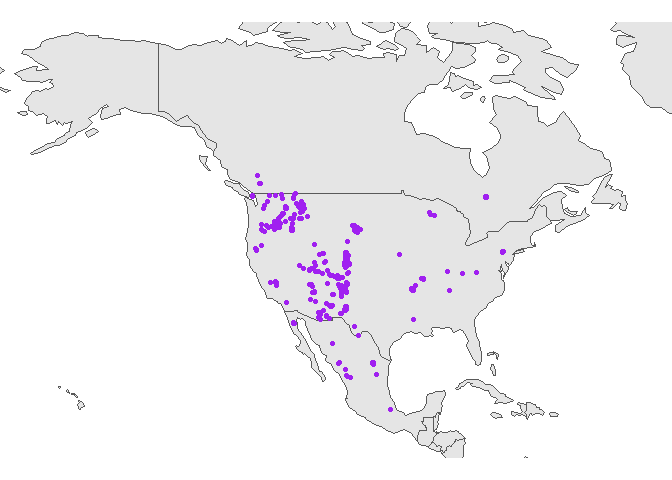
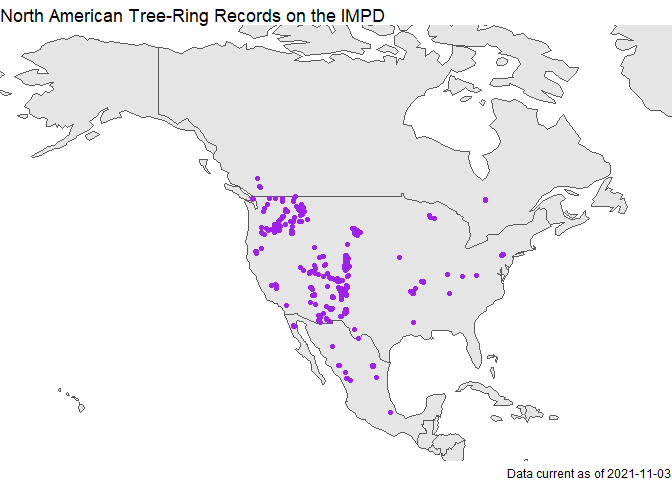
updates to readme

diff --git a/README.md b/README.md
@@ -28,6 +28,9 @@ ggplot() +
   geom_sf(data = spData::world) +
   geom_sf(data = all_sites, color = "purple") +
   coord_sf(xlim=c(-165, -50), ylim=c(15, 70)) +
+  labs(title = "North American Tree-Ring Records on the IMPD",
+       caption = paste0("Data current as of ", lubridate::today())
+       ) +
   theme_void()
 ```
 
@@ -36,7 +39,8 @@ ggplot() +
 The tree-ring data associated with each site can be obtained directly:
 
 ``` r
-fhx <- get_impd_fhx(all_sites[10, ]$studyCode)
+site_to_get <- all_sites[10, ]$studyCode
+fhx <- get_impd_fhx(site_to_get)
 ```
 
 and analyzed with tools from the `burnr` library, for example:
@@ -45,7 +49,16 @@ and analyzed with tools from the `burnr` library, for example:
 library(burnr)
 plot_demograph(fhx, 
                composite_rug = TRUE,
-               plot_legend = TRUE)
+               plot_legend = TRUE) +
+  labs(title = all_sites[10, ]$siteName, 
+       subtitle = paste0("Collected by: ", all_sites[10, ]$investigators),
+       caption = "Tree-ring fire history plot. Each horizontal line represents the life-span
+       of a tree, with vertical tick marks denoting  fire scars recorded in the tree rings. 
+       At bottom, vertical dashes indicate 'widespread' fires that were recorded on 25% of 
+       the trees.")
 ```
 
 <img src="man/figures/README-unnamed-chunk-4-1.png" width="100%" />
+
+Funding for `rIMPD` was provided by the USGS Community for Data
+Integration <https://www.usgs.gov/centers/cdi>
